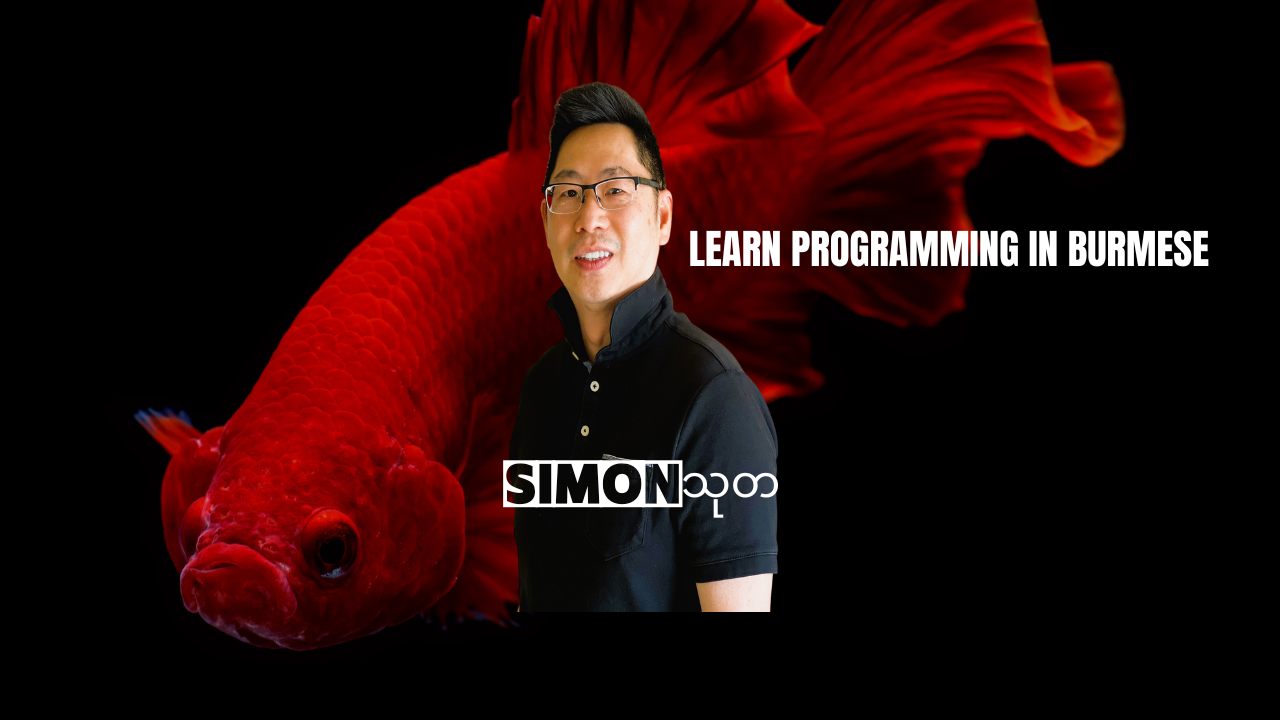
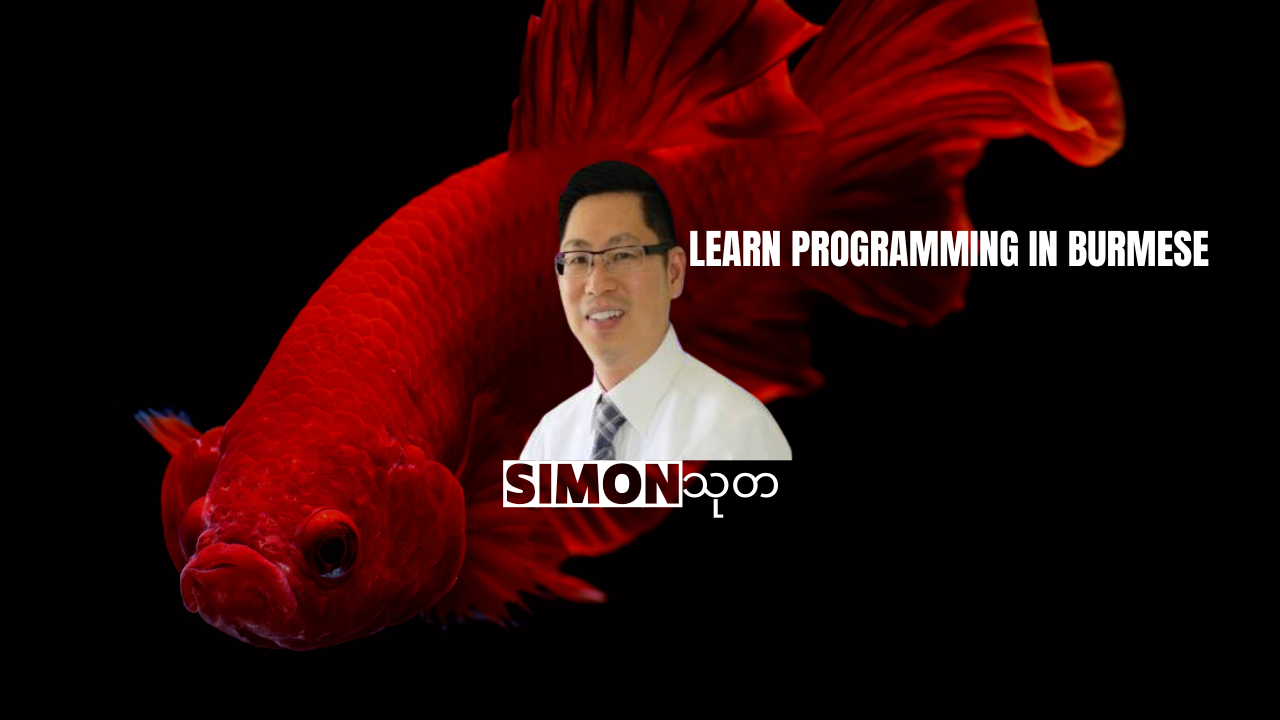
update images

Changed region(s): [[0.375, 0.0917, 0.625, 0.8556]]

diff --git a/templates/home.html b/templates/home.html
@@ -1,7 +1,7 @@
 {% extends 'base.html' %}
 {% load static %}
 {% block content %}
-   {% comment %} <!-- ======= Hero Section ======= -->
+   <!-- ======= Hero Section ======= -->
    <section id="hero">
     <div class="hero-container">
       <div id="heroCarousel" data-bs-interval="5000" class="carousel slide carousel-fade" data-bs-ride="carousel">
@@ -11,7 +11,7 @@
         <div class="carousel-inner" role="listbox">
 
           <!-- Slide 1 -->
-          <div class="carousel-item active" style="background-image: url({% static 'img/slide/slide-1.png' %});">
+          <div class="carousel-item active" style="background-image: url({% static 'img/slide/slide-image-1.png' %});">
             <div class="carousel-container">
               <div class="carousel-content">
                 <h2 class="animate__animated animate__fadeInDown"><span>Knowledge</span> Sharing</h2>
@@ -25,7 +25,7 @@
           </div>
 
           <!-- Slide 2 -->
-          <div class="carousel-item" style="background-image: url({% static 'img/slide/slide-2.png' %});">
+          <div class="carousel-item" style="background-image: url({% static 'img/slide/slide-image-2.png' %});">
             <div class="carousel-container">
               <div class="carousel-content">
                 <h2 class="animate__animated animate__fadeInDown"><span>Learn</span> Programming</h2>
@@ -39,7 +39,7 @@
           </div>
 
           <!-- Slide 3 -->
-          <div class="carousel-item" style="background-image: url({% static 'img/slide/slide-3.png' %});">
+          <div class="carousel-item" style="background-image: url({% static 'img/slide/slide-image-3.png' %});">
             <div class="carousel-container">
               <div class="carousel-content">
                 <h2 class="animate__animated animate__fadeInDown"><span>Learn</span> in Burmese</h2>
@@ -64,46 +64,5 @@
 
       </div>
     </div>
-  </section><!-- End Hero --> {% endcomment %}
-</br></br></br>
-    <!-- ======= About Section ======= -->
-    <section id="about" class="about">
-      <div class="container-fluid">
-
-        <div class="row">
-
-          {% comment %} <div class="col-lg-5 align-items-stretch video-box" style='background-image: url("{% static 'img/about.jpg");'>
-            <a href="https://www.youtube.com/watch?v=jDDaplaOz7Q" class="venobox play-btn mb-4" data-vbtype="video" data-autoplay="true"></a>
-          </div> {% endcomment %}
-
-          <div class="col-lg-7 d-flex flex-column justify-content-center align-items-stretch">
-
-            <div class="content">
-              <h3>Eum ipsam laborum deleniti <strong>velit pariatur architecto aut nihil</strong></h3>
-              <img src="{% static 'img/slide/slide-2.png' %}" />
-              <p>
-                Lorem ipsum dolor sit amet, consectetur adipiscing elit, sed do eiusmod tempor incididunt ut labore et dolore magna aliqua. Duis aute irure dolor in reprehenderit
-              </p>
-              <p class="fst-italic">
-                Lorem ipsum dolor sit amet, consectetur adipiscing elit, sed do eiusmod tempor incididunt ut labore et dolore
-                magna aliqua.
-              </p>
-              <ul>
-                <li><i class="bx bx-check-double"></i> Ullamco laboris nisi ut aliquip ex ea commodo consequat.</li>
-                <li><i class="bx bx-check-double"></i> Duis aute irure dolor in reprehenderit in voluptate velit.</li>
-                <li><i class="bx bx-check-double"></i> Ullamco laboris nisi ut aliquip ex ea commodo consequat. Duis aute irure dolor in reprehenderit in voluptate trideta storacalaperda mastiro dolore eu fugiat nulla pariatur.</li>
-              </ul>
-              <p>
-                Ullamco laboris nisi ut aliquip ex ea commodo consequat. Duis aute irure dolor in reprehenderit in voluptate
-                velit esse cillum dolore eu fugiat nulla pariatur. Excepteur sint occaecat cupidatat non proident, sunt in
-                culpa qui officia deserunt mollit anim id est laborum
-              </p>
-            </div>
-
-          </div>
-
-        </div>
-
-      </div>
-    </section><!-- End About Section -->
-    {% endblock %}
+  </section><!-- End Hero --> 
+{% endblock %}

diff --git a/static/css/style.css b/static/css/style.css
@@ -80,11 +80,12 @@ h6 {
 }
 
 #topbar.topbar-transparent {
-  background: transparent;
+  /* background: transparent; */
+  background: rgba(26, 24, 22, 0.8);
 }
 
 #topbar.topbar-scrolled {
-  top: -50px;
+  /* top: -50px; */
 }
 
 #topbar i {
@@ -111,7 +112,8 @@ h6 {
 }
 
 #header.header-transparent {
-  background: transparent;
+  /* background: transparent; */
+  background: rgba(26, 24, 22, 0.85);
 }
 
 #header.header-scrolled {
@@ -727,8 +729,10 @@ section {
   transform: translateX(-40%) translateY(-50%);
   width: 0;
   height: 0;
-  border-top: 10px solid transparent;
-  border-bottom: 10px solid transparent;
+  /* border-top: 10px solid transparent;
+  border-bottom: 10px solid transparent; */
+  border-top: 10px solid;
+  border-bottom: 10px solid;
   border-left: 15px solid #fff;
   z-index: 100;
   transition: all 400ms cubic-bezier(0.55, 0.055, 0.675, 0.19);
@@ -766,8 +770,8 @@ section {
   width: 0;
   height: 0;
   border: none;
-  border-top: 10px solid transparent;
-  border-bottom: 10px solid transparent;
+  border-top: 10px solid;
+  border-bottom: 10px solid;
   border-left: 15px solid #fff;
   z-index: 200;
   animation: none;
